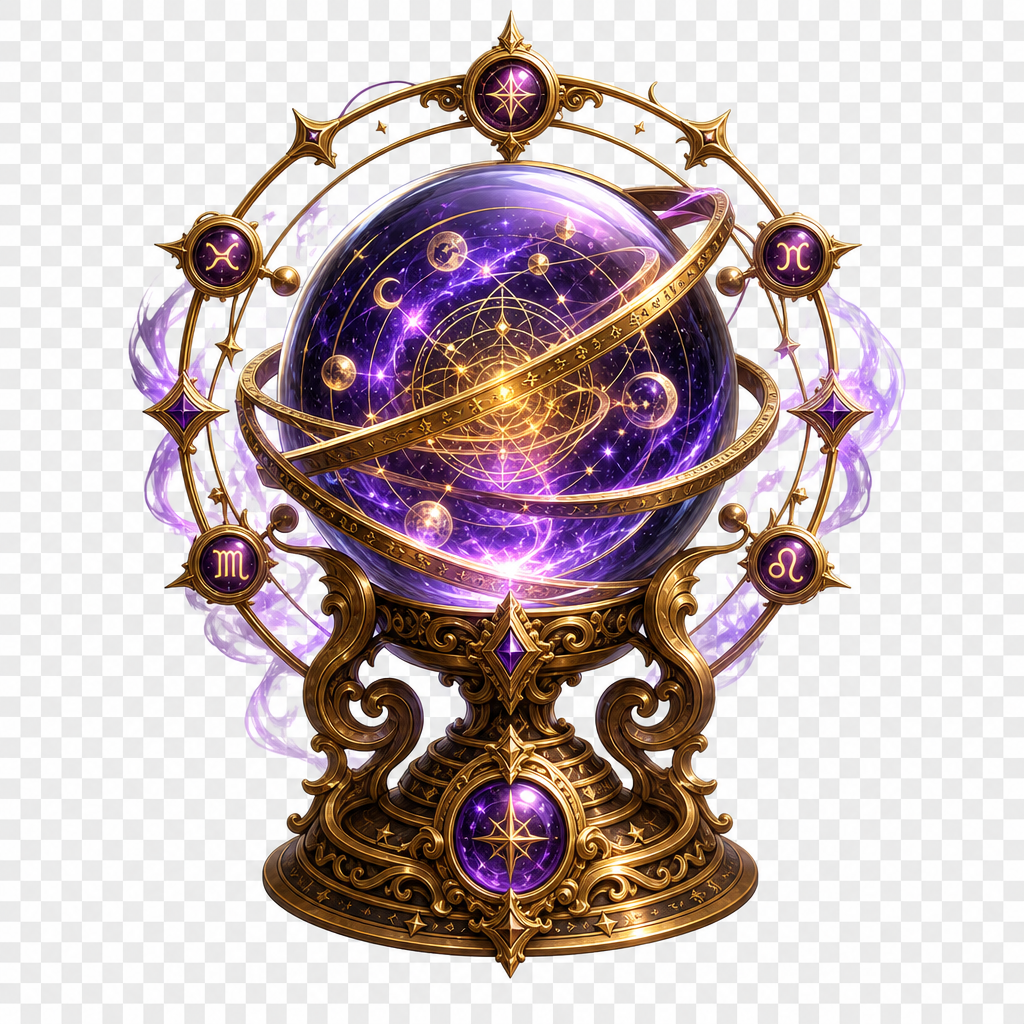
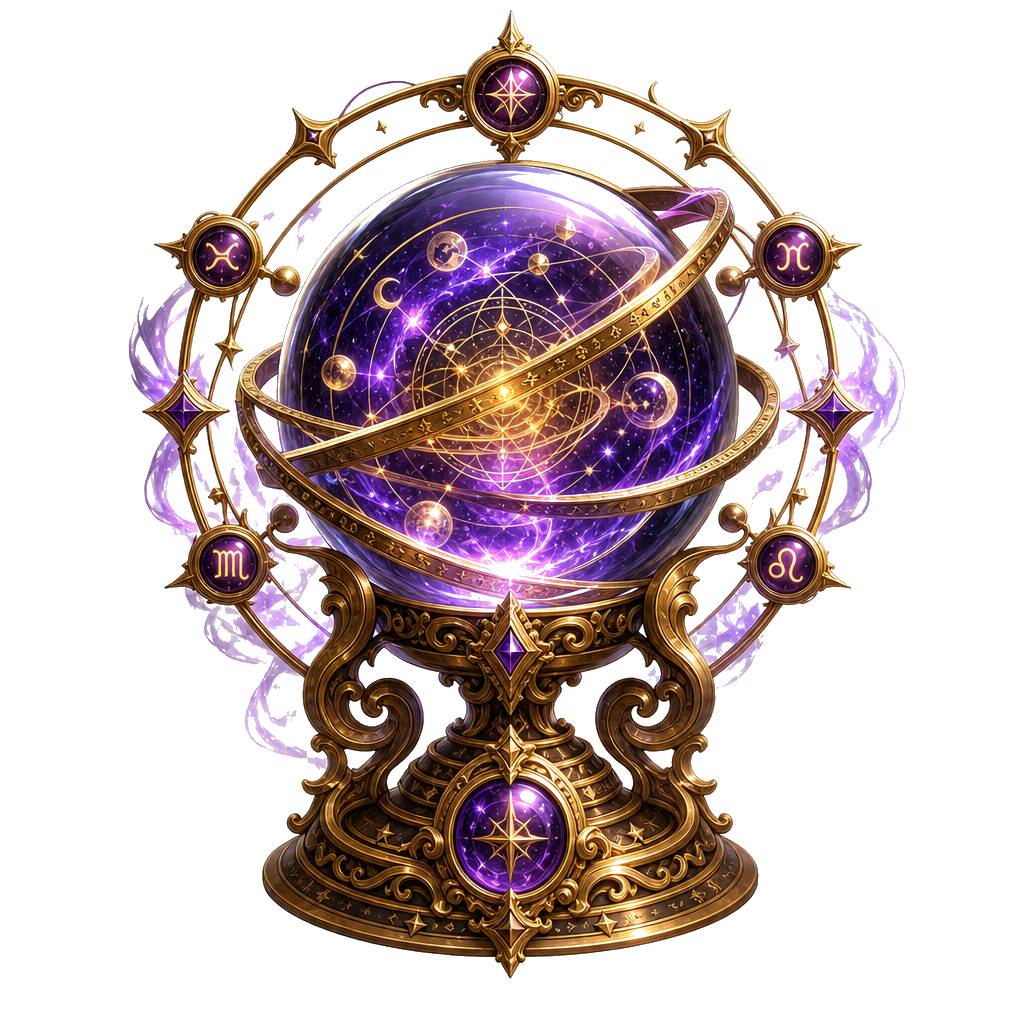
fix: убрать рамку у хедеров + белый фон у иконок навбара (#20)
* fix: убрать белый фон у иконки Эзотерика в навбаре

* fix: убрать белый фон у иконки Таро в навбаре

* fix: убрать рамку у хедер-картинок Таро и Эзотерика

diff --git a/src/components/layout/SpreadListScreen.tsx b/src/components/layout/SpreadListScreen.tsx
@@ -26,7 +26,7 @@ export default function SpreadListScreen({ category }: { category: SpreadCategor
   return (
     <div className="px-4 pt-4 pb-4 relative z-10">
       {/* Category header image */}
-      <div className="mb-4 rounded-2xl overflow-hidden border border-mystic-accent/20">
+      <div className="mb-4 rounded-2xl overflow-hidden">
         <img src={headerImage} alt={title} className="w-full h-auto block" />
       </div>
 
